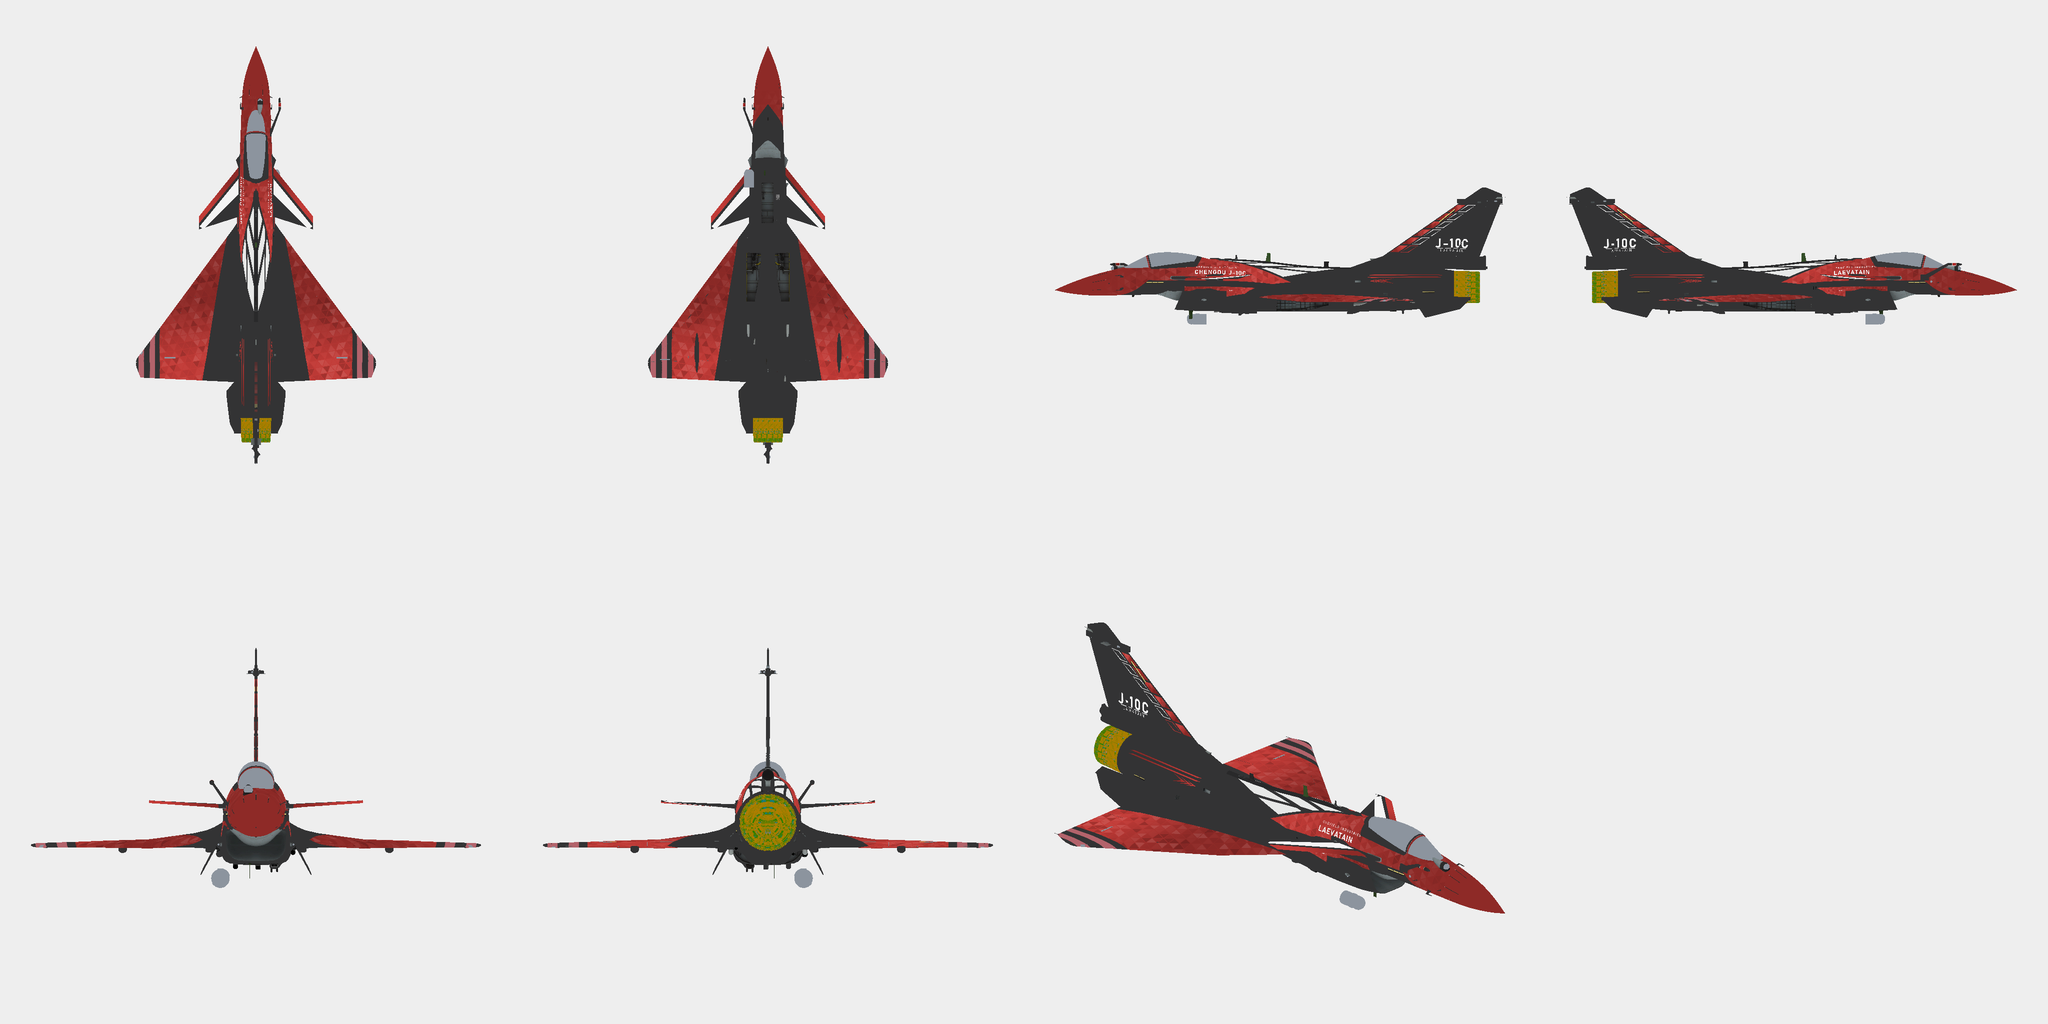
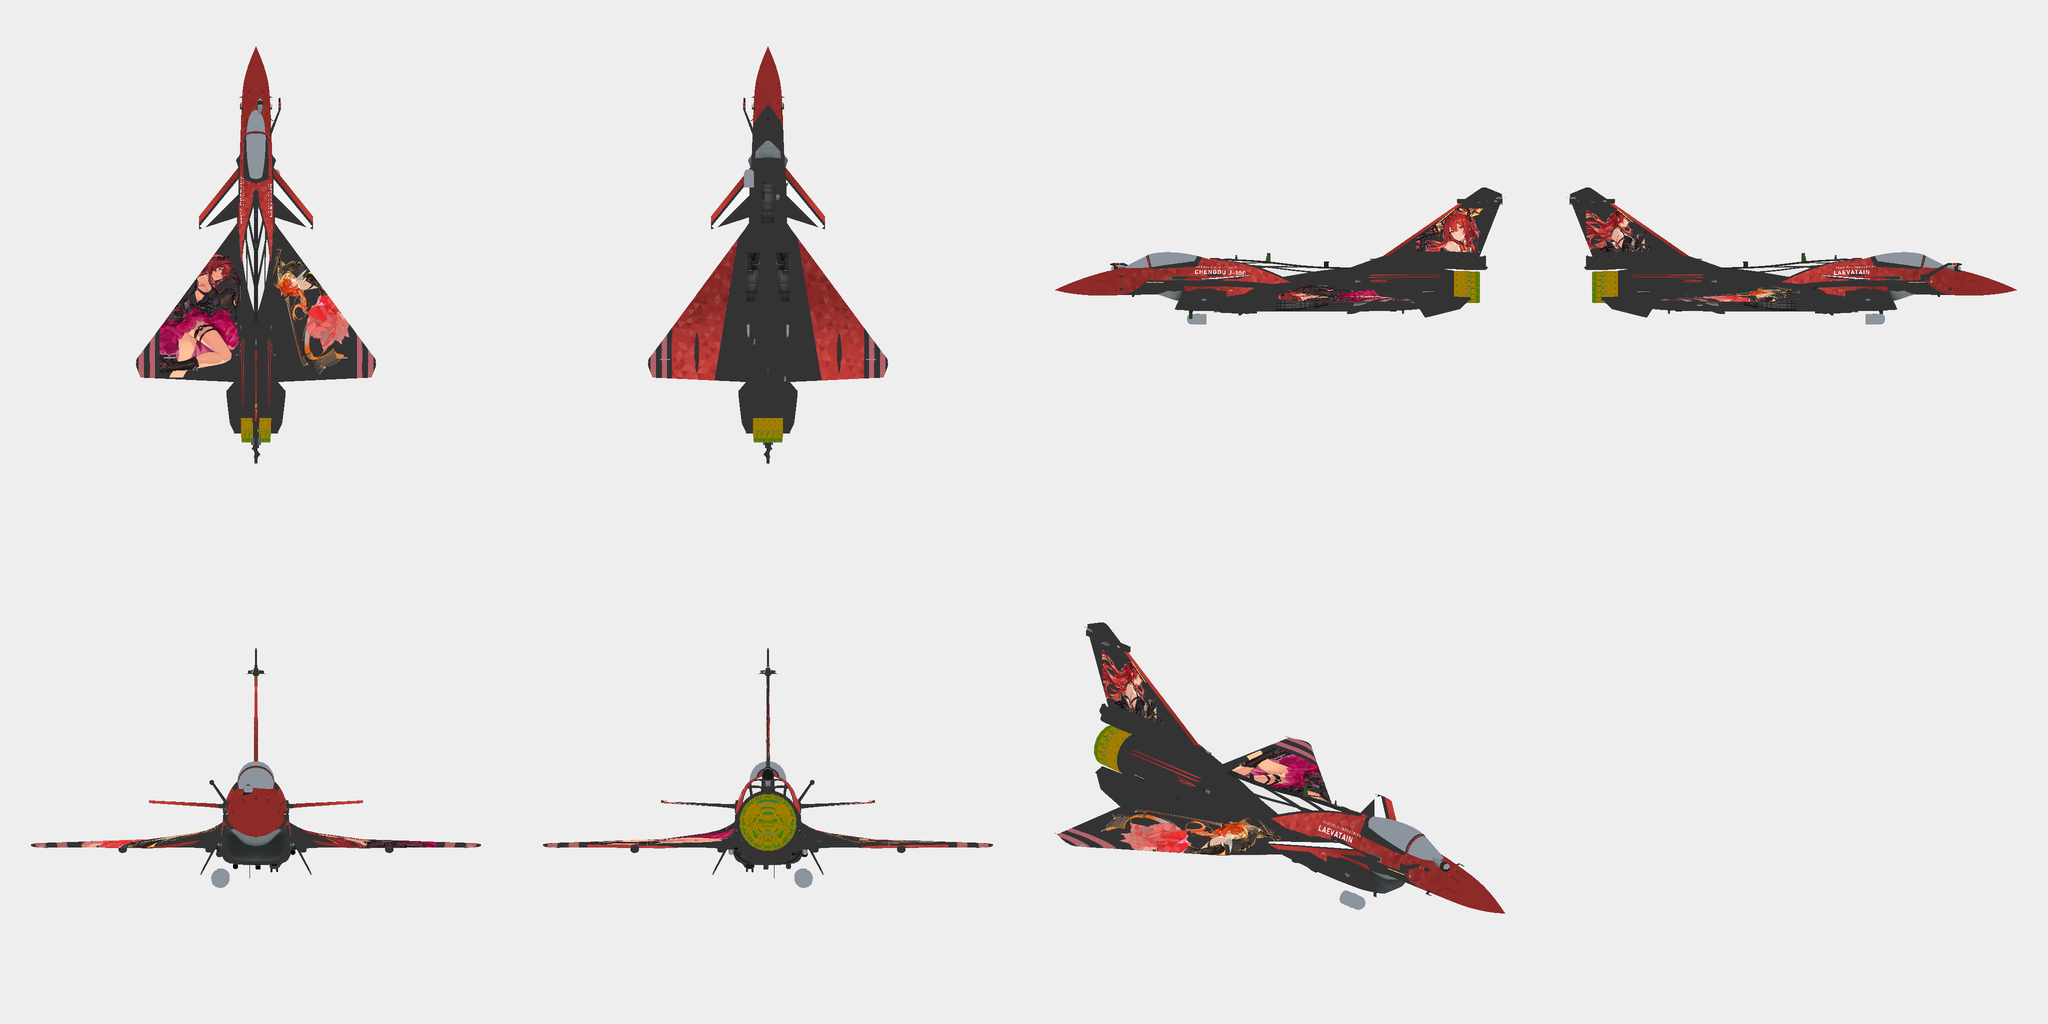
J-10C Laevatain v6: stage 2 character art on the wing tops and both fin faces, no fin type

diff --git a/works/j10c-laevatain-akamywek/README.md b/works/j10c-laevatain-akamywek/README.md
@@ -7,20 +7,20 @@
 | 机型 | J-10C |
 | 角色 | 莱万汀 |
 | 风格 | Akamywek 风格 |
-| 当前版本 | [v5](https://github.com/IcyRyna/war-thunder-liveries/releases/tag/works/j10c-laevatain-akamywek/v5) |
+| 当前版本 | [v6](https://github.com/IcyRyna/war-thunder-liveries/releases/tag/works/j10c-laevatain-akamywek/v6) |
 | 日期 | 2026-10-19 |
 | 状态 | 待评价 |
-| 说明 | 第一阶段基本布局，不放立绘。按 v4 游戏实机意见（“白色线条依然是你的薄弱点”）重做机背白色：改用作者 F-2A 的构造线切格方法，0° / 12° / 18° 三族线，先把缺口铺成一整块白色箭头，再用 9 cm 的 V 形切缝和 7 cm 的台阶切缝切成三块有体量的白色；去掉回声细线；垂尾描边框加粗到 1.5 cm。其余同 v4。俯视面积 深底 48.1% / 签名色 39.1% / 淡染 2.0% / 白 5.7%。还没进游戏实机看过。 |
+| 说明 | 第二阶段，上立绘。在 v5 基本布局上放 4 张不同的人物：左翼上表面官方截图 3、右翼上表面官方截图 1（背景由 GPT 换成纯灰后抠图），垂尾左右两面各一张 GPT 参考官方图画的新姿态；人物铺满主翼上表面（只留翼尖条纹），垂尾人物从头往下取、在根部深色带截断；垂尾不再放字和平行四边形序列。俯视面积 深底 49.8% / 签名色 25.5% / 淡染 7.2% / 白 5.7%。还没进游戏实机看过。 |
 | 工作区任务 | `war-thunder-skins/assignments/j10c-laevatain-akamywek-20261018` |
 
 ## 文件（在 Release 里下载）
 
 | 文件 | 类型 | 大小 | SHA-256 |
 | --- | --- | --- | --- |
-| `J10C_Laevatain_Akamywek_v5.zip` | 游戏包（TGA，颜色 8192） | 11.5 MB | `7665308188cc5e2e…` |
-| `J10C_Laevatain_Akamywek_v5_Editable.zip` | 可编辑工程（Composa 工程、图层、矢量稿、设计源） | 10.6 MB | `afc0d6f25dd64aad…` |
-| `J10C_Laevatain_Akamywek_v5.cmps` | 可编辑工程（Composa） | 6.9 MB | `a71bb0567c08c45b…` |
-| `J10C_Laevatain_v5_install_notes_zh.txt` | 使用说明（中文） | 2.2 KB | `4d402941a408a5aa…` |
+| `J10C_Laevatain_Akamywek_v6.zip` | 游戏包（TGA，颜色 8192） | 22.9 MB | `9d215e2fab01af17…` |
+| `J10C_Laevatain_Akamywek_v6_Editable.zip` | 可编辑工程（Composa 工程、图层、矢量稿、设计源、立绘抠图与 GPT 原图） | 57.5 MB | `be451abc6dec1668…` |
+| `J10C_Laevatain_Akamywek_v6.cmps` | 可编辑工程（Composa） | 14.8 MB | `c4af348ea437f2ad…` |
+| `J10C_Laevatain_v6_install_notes_zh.txt` | 使用说明（中文） | 2.6 KB | `692997e7be40fc48…` |
 
 ## 安装
 
@@ -30,7 +30,8 @@
 
 | 版本 | 日期 | 状态 |
 | --- | --- | --- |
-| v5 | 2026-10-19 | 待评价（机背白色改用构造线切格，去掉回声细线，描边加粗） |
+| v6 | 2026-10-19 | 待评价（第二阶段：主翼上表面和垂尾两面放 4 张立绘，垂尾去掉字） |
+| v5 | 2026-10-19 | 未单独评价；v6 在它上面放立绘（机背白色改用构造线切格，去掉回声细线，描边加粗） |
 | v4 | 2026-10-19 | 被 v5 取代：游戏里看机背白色太弱（梳子状回声细线、整块白板） |
 | v3 | 2026-10-18 | 待评价（按 Skill 3.9 / 1.9 修改机背、鸭翼、立绘和面板线） |
 | v2 | 2026-10-18 | 被 v3 取代：机背 V 被凸起背鳍条切断、鸭翼色带不贴前缘、没有面板线 |

diff --git a/README.md b/README.md
@@ -10,7 +10,7 @@
 | --- | --- | --- | --- | --- |
 | [J-16 陈千语](works/j16-chen-qianyu-akamywek/README.md) | Akamywek 风格 | [v10](https://github.com/IcyRyna/war-thunder-liveries/releases/tag/works/j16-chen-qianyu-akamywek/v10) | 2026-10-18 | 已认可 |
 | [J-10C 庄方宜](works/j10c-zhuang-fangyi-akamywek/README.md) | Akamywek 风格 | [v3](https://github.com/IcyRyna/war-thunder-liveries/releases/tag/works/j10c-zhuang-fangyi-akamywek/v3) | 2026-10-18 | 待评价 |
-| [J-10C 莱万汀](works/j10c-laevatain-akamywek/README.md) | Akamywek 风格 | [v5](https://github.com/IcyRyna/war-thunder-liveries/releases/tag/works/j10c-laevatain-akamywek/v5) | 2026-10-19 | 待评价 |
+| [J-10C 莱万汀](works/j10c-laevatain-akamywek/README.md) | Akamywek 风格 | [v6](https://github.com/IcyRyna/war-thunder-liveries/releases/tag/works/j10c-laevatain-akamywek/v6) | 2026-10-19 | 待评价 |
 | [J-16 陈千语](works/j16-chen-qianyu/README.md) | 早期风格 | [v1](https://github.com/IcyRyna/war-thunder-liveries/releases/tag/works/j16-chen-qianyu/v1) | 2026-10-16 | 待评价 |
 | [J-10C 陈千语](works/j10c-chen-qianyu-repaired/README.md) | 早期风格（重修版） | [v1](https://github.com/IcyRyna/war-thunder-liveries/releases/tag/works/j10c-chen-qianyu-repaired/v1) | 2026-10-16 | 待评价 |
 | [J-10C 诀](works/j10c-jue-repaired/README.md) | 早期风格（重修版） | [v1](https://github.com/IcyRyna/war-thunder-liveries/releases/tag/works/j10c-jue-repaired/v1) | 2026-10-16 | 待评价 |
